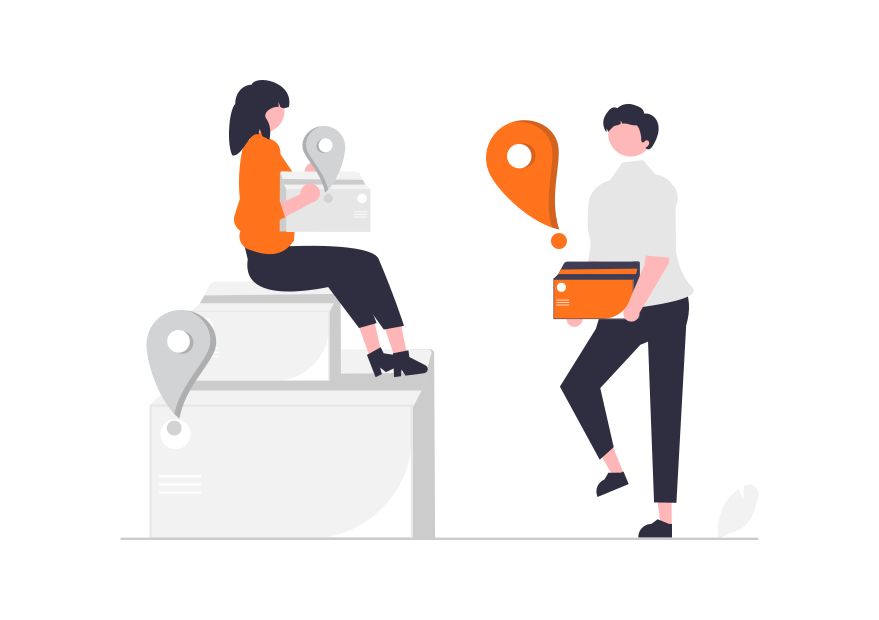
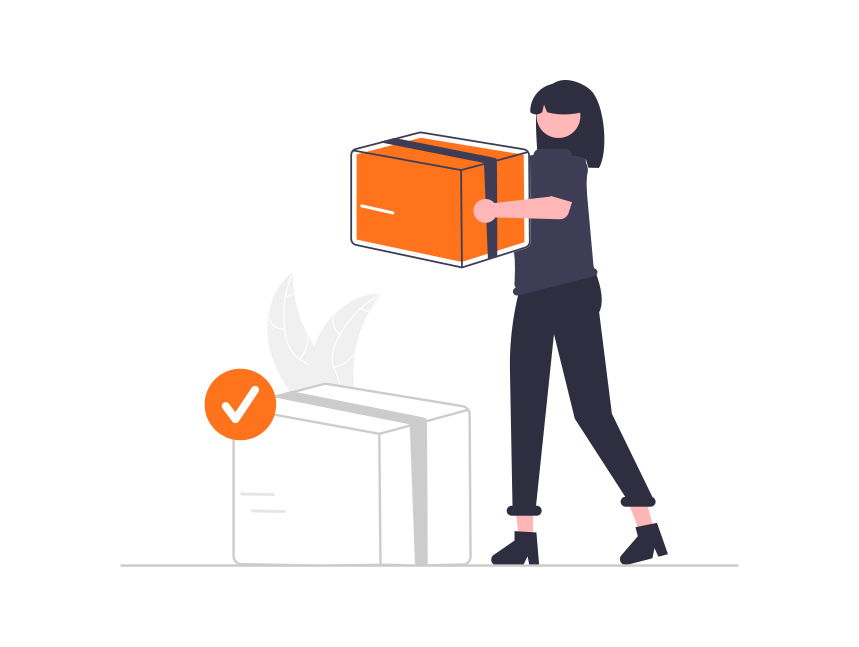
change illustrations, change layout homepage titel

Changed region(s): [[0.1513, 0.1226, 0.8475, 0.8887]]

diff --git a/app/assets/stylesheets/pages/_home.scss b/app/assets/stylesheets/pages/_home.scss
@@ -1,13 +1,7 @@
 // Specific CSS for your home-page
 .homepage-banner {
-  text-align: top;
+  margin-top: 20px;
 }
-.banner {
-  text-align: top;
-  margin: 50px;
-  // position: relative;
-}
-
 
 #img-homepage {
   background-image: url("bg-homepage.png");
@@ -19,30 +13,16 @@
   display:flex;
   justify-content: center;
   padding-top: 88px;
-  // padding-top: 120px;
   margin-bottom: 40px;
 }
 
 
 .homepage-h1 {
- font-size: 20px;
- text-align: center;
+ font-size: 30px;
+  margin-top: 20px;
+  text-align:right;
+  margin-right: 20px;
 }
-
-.word-box {
-  // position: absolute;
-  // margin-top: 50%;
-  margin-bottom: 200px;
-  right: -180px;
-  text-align: center;
-  padding: 3px 19px;
-
-  justify-content: end;
-  background: rgba(251, 251, 251, 0.5);
-  display: flex;
-}
-
-
 
 
 
@@ -50,8 +30,6 @@ body {
   padding: 0px;
   margin: 0px;
 }
-
-
 
 
 #new-order {

diff --git a/app/assets/stylesheets/components/_container.scss b/app/assets/stylesheets/components/_container.scss
@@ -41,3 +41,11 @@
   padding: 50px;
   margin-bottom: 40px;
 }
+
+//// banner ///
+
+.banner {
+  text-align: top;
+  margin: 50px;
+  // position: relative;
+}
